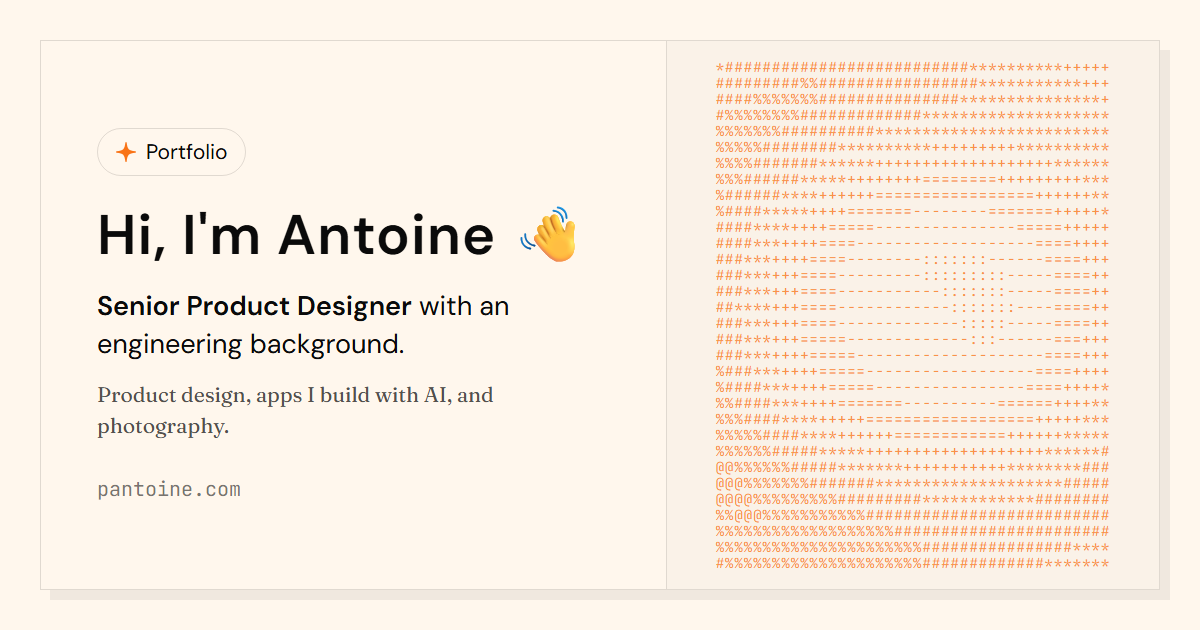
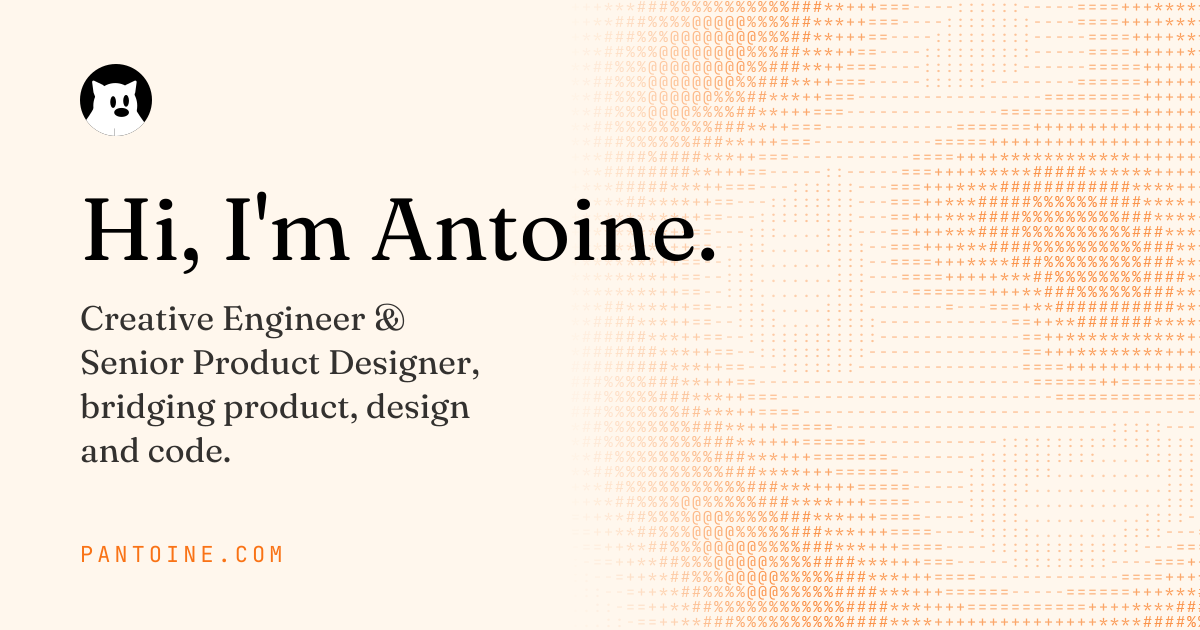
Update link preview card and metadata for the redesign

diff --git a/src/consts.ts b/src/consts.ts
@@ -7,7 +7,7 @@ export const SITE: Site = {
 
 export const HOME: Metadata = {
   TITLE: "Antoine Pouligny, Creative Engineer & Senior Product Designer",
-  DESCRIPTION: "Hey I'm Antoine Pouligny, a Creative Engineer and Product Designer, welcome to my portfolio.",
+  DESCRIPTION: "Antoine Pouligny is a Creative Engineer and Senior Product Designer bridging product, design and code. Selected projects, work and writing.",
 };
 
 export const BLOG: Metadata = {
